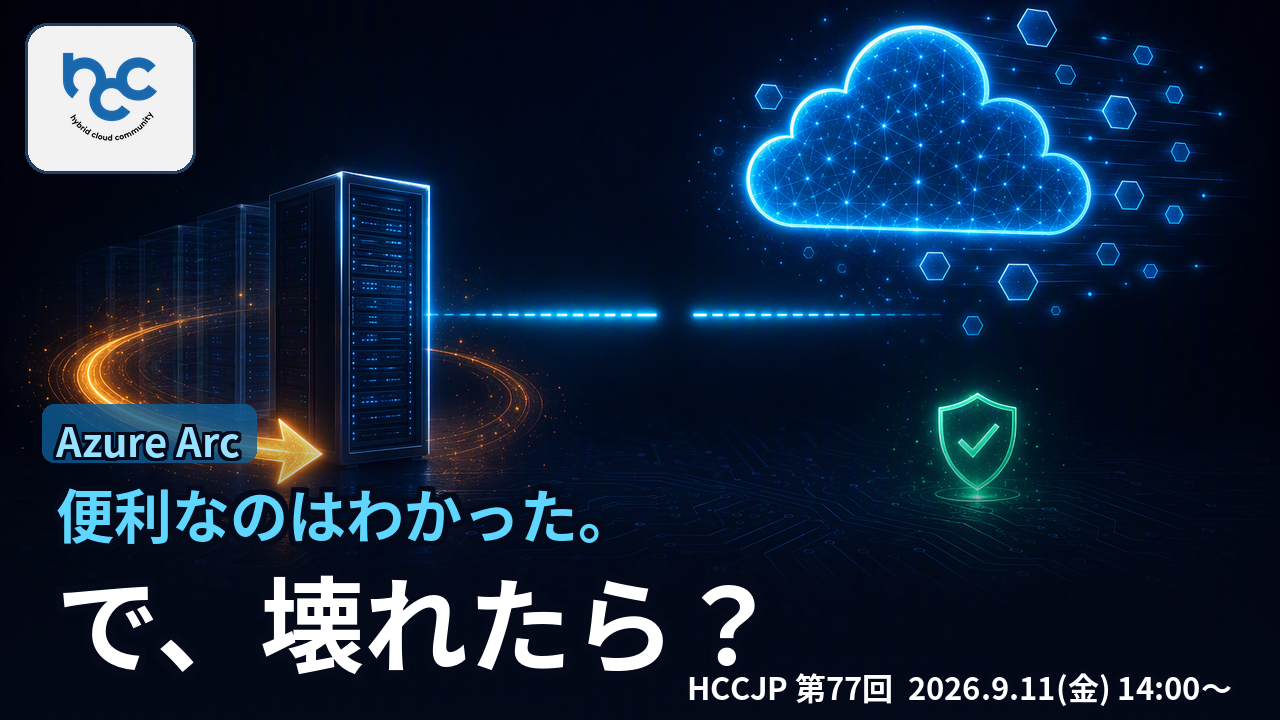
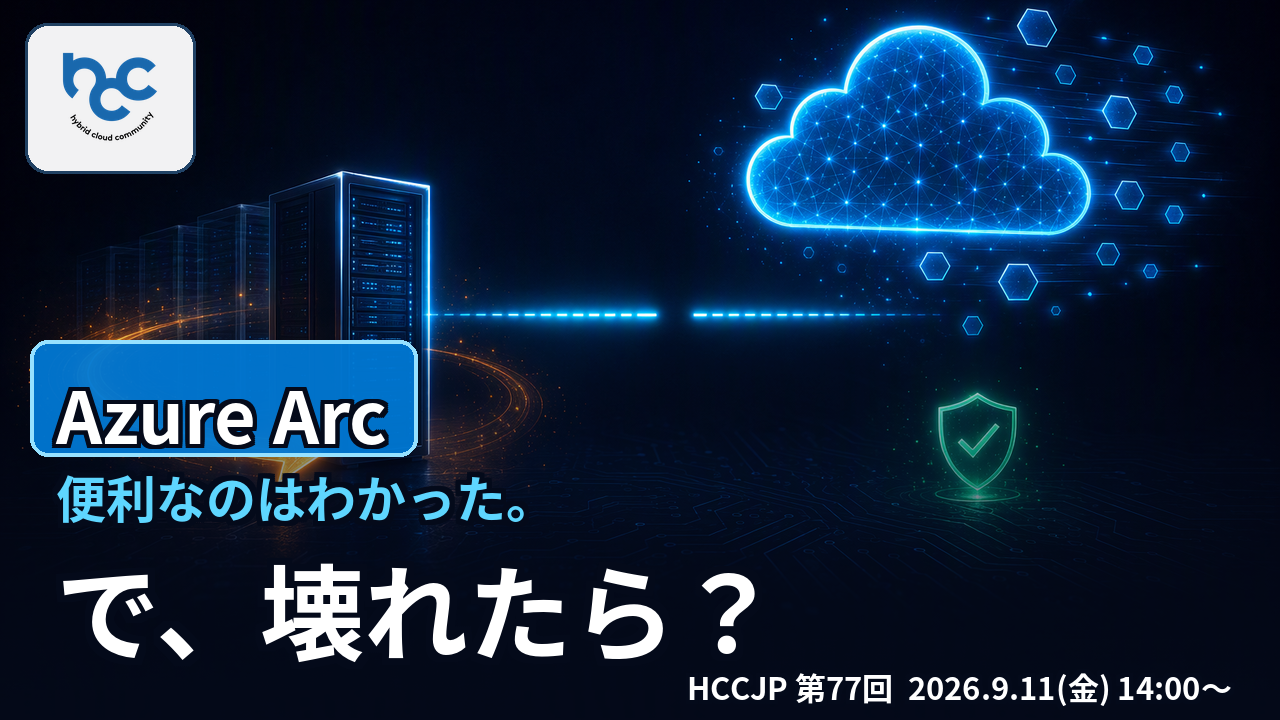
fix: サムネイルの Azure Arc を主題として目立たせる (#27)
小さなラベルから、Azureブルーの帯＋白抜き72ptへ拡大。
見出しを Azure Arc / 便利なのはわかった。/ で、壊れたら？ の
3行構成に組み直し、下部のベールを厚くして可読性を確保した。

Changed region(s): [[0.0, 0.4583, 0.5938, 0.9472], [0.0312, 0.7944, 0.1562, 0.9472], [0.7188, 0.55, 0.8125, 0.7028]]

diff --git a/HCCJP_77/make_thumbnail.py b/HCCJP_77/make_thumbnail.py
@@ -67,31 +67,36 @@ def build() -> Image.Image:
     # 下半分を暗く落として文字を読みやすくする
     veil = Image.new("RGBA", base.size, (0, 0, 0, 0))
     vd = ImageDraw.Draw(veil)
-    for i in range(300):
-        y = height - 300 + i
-        vd.line([(0, y), (width, y)], fill=(4, 10, 26, int(215 * (i / 300) ** 0.7)))
+    for i in range(400):
+        y = height - 400 + i
+        vd.line([(0, y), (width, y)], fill=(4, 10, 26, int(225 * (i / 400) ** 0.7)))
     composed = Image.alpha_composite(base, veil)
     draw = ImageDraw.Draw(composed)
 
-    # 見出し（下部・左寄せ）
-    f0 = _font(40)
-    f1 = _font(58)
+    # 見出し（下部・左寄せ）。Azure Arc を見出しと同格の大きさで最上段に置く
+    f0 = _font(72)
+    f1 = _font(50)
     f2 = _font(104)
     x = 56
-    y1 = height - 250
+    y0 = height - 360
+    y1 = y0 + 100
+    y2 = y1 + 72
 
-    # テーマラベル。見出しの上に小さく置き、何の話かを一目で分かるようにする
+    # Azure Arc — Azureブルーの帯に白抜き。サムネが小さく表示されても主題が読める
     lw = draw.textbbox((0, 0), LABEL, font=f0)[2]
     bar = Image.new("RGBA", composed.size, (0, 0, 0, 0))
-    ImageDraw.Draw(bar).rounded_rectangle(
-        [x - 14, y1 - 66, x + lw + 16, y1 - 8], radius=12, fill=(12, 92, 150, 205)
+    bdr = ImageDraw.Draw(bar)
+    bdr.rounded_rectangle(
+        [x - 26, y0 - 20, x + lw + 30, y0 + 96], radius=18, fill=(0, 120, 212, 240)
+    )
+    bdr.rounded_rectangle(
+        [x - 26, y0 - 20, x + lw + 30, y0 + 96], radius=18, outline=(150, 225, 255, 255), width=4
     )
     composed = Image.alpha_composite(composed, bar)
     draw = ImageDraw.Draw(composed)
-    _outlined(draw, (x, y1 - 60), LABEL, f0, (150, 225, 255, 255), width=3)
+    _outlined(draw, (x, y0), LABEL, f0, WHITE, width=4)
 
     _outlined(draw, (x, y1), LINE1, f1, CYAN, width=5)
-    y2 = y1 + 74
     _outlined(draw, (x, y2), LINE2, f2, WHITE, width=7)
 
     # 開催日（右下）
